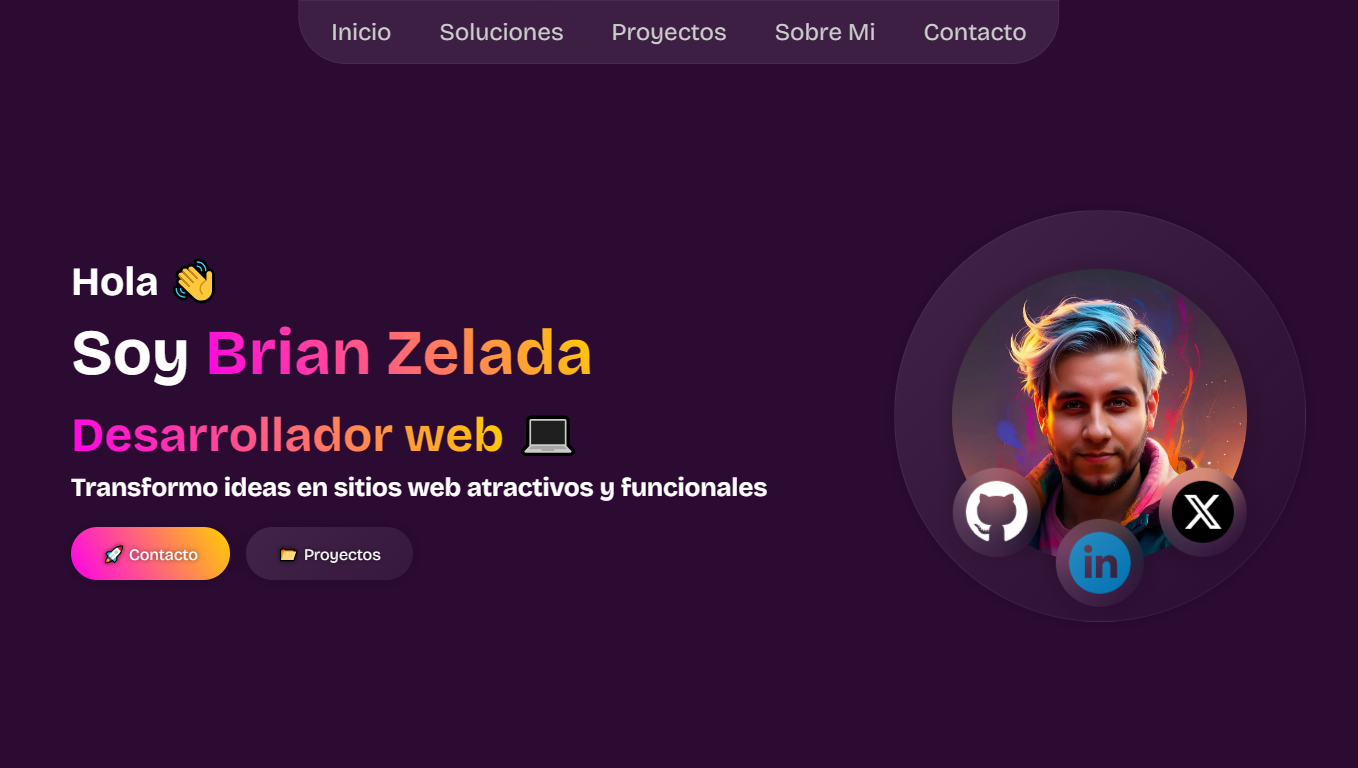
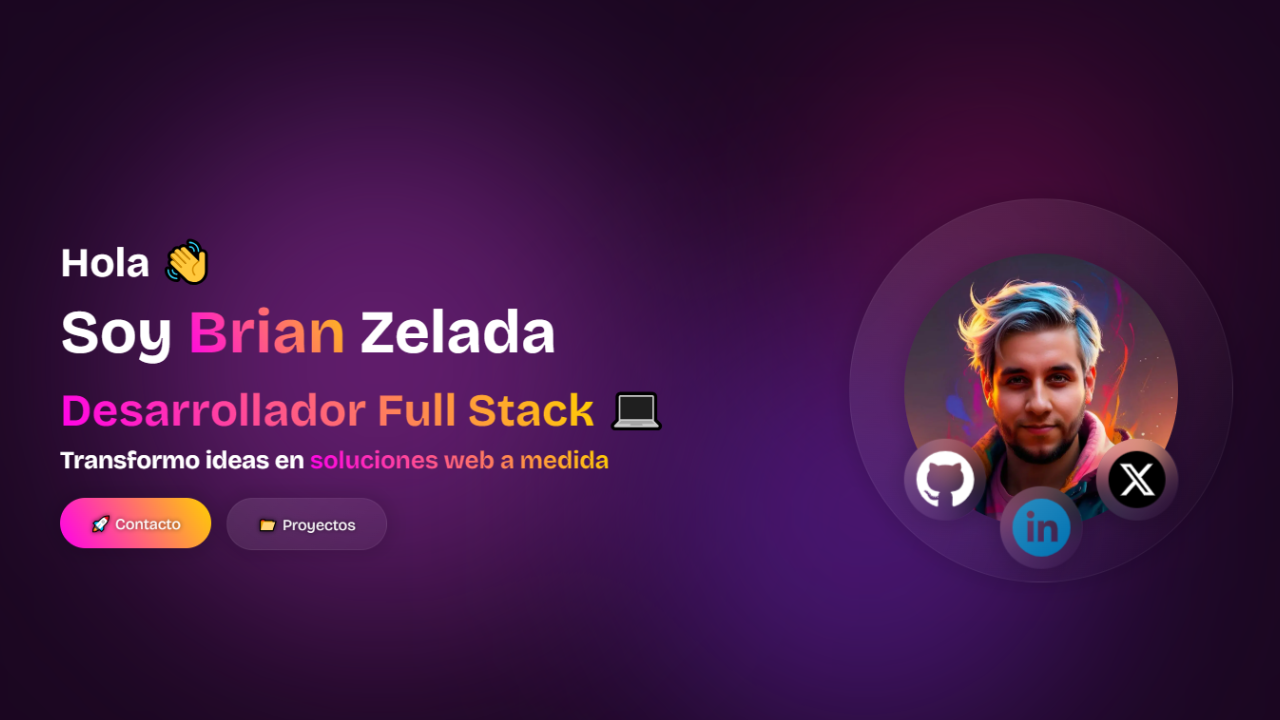
refactor: update preview, seo and images

diff --git a/index.html b/index.html
@@ -9,24 +9,24 @@
 		<meta name="title" content="Brian Zelada" />
 		<meta
 			name="description"
-			content="Brian Zelada, Desarrollador web frontend especializado en React. Conoce mis proyectos y habilidades en diseño."
+			content="Brian Zelada, Full Stack Developer | React | TypeScript | NestJS. Explora mis proyectos y habilidades en desarrollo web."
 		/>
 
 		<meta property="og:type" content="website" />
-		<meta property="og:url" content="https://brianzelada.vercel.app/" />
+		<meta property="og:url" content="https://brianzelada.interup.dev/" />
 		<meta property="og:title" content="Brian Zelada" />
 		<meta
 			property="og:description"
-			content="Brian Zelada, Desarrollador web frontend especializado en React. Conoce mis proyectos y habilidades en diseño."
+			content="Brian Zelada, Full Stack Developer | React | TypeScript | NestJS. Explora mis proyectos y habilidades en desarrollo web."
 		/>
 		<meta property="og:image" content="/miniatura.webp" />
 
 		<meta property="twitter:card" content="summary_large_image" />
-		<meta property="twitter:url" content="https://brianzelada.vercel.app/" />
+		<meta property="twitter:url" content="https://brianzelada.interup.dev/" />
 		<meta property="twitter:title" content="Brian Zelada" />
 		<meta
 			property="twitter:description"
-			content="Brian Zelada, Desarrollador web frontend especializado en React. Conoce mis proyectos y habilidades en diseño."
+			content="Brian Zelada, Full Stack Developer | React | TypeScript | NestJS. Explora mis proyectos y habilidades en desarrollo web."
 		/>
 		<meta property="twitter:image" content="/miniatura.webp" />
 
